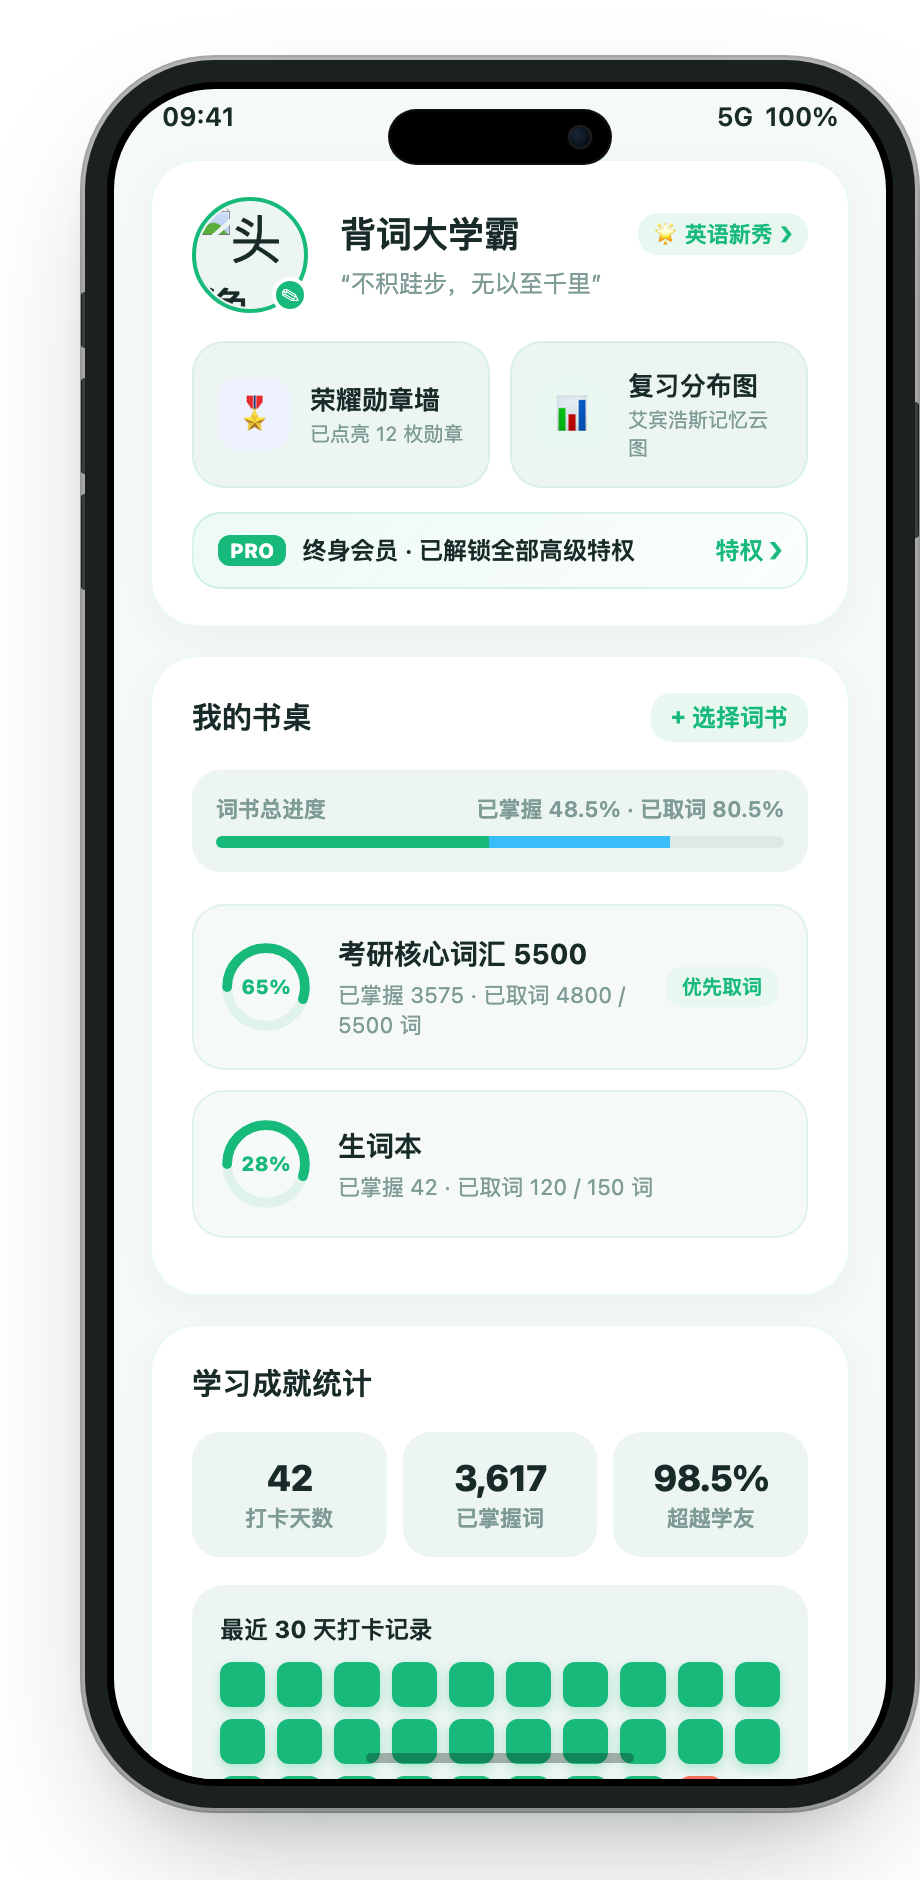
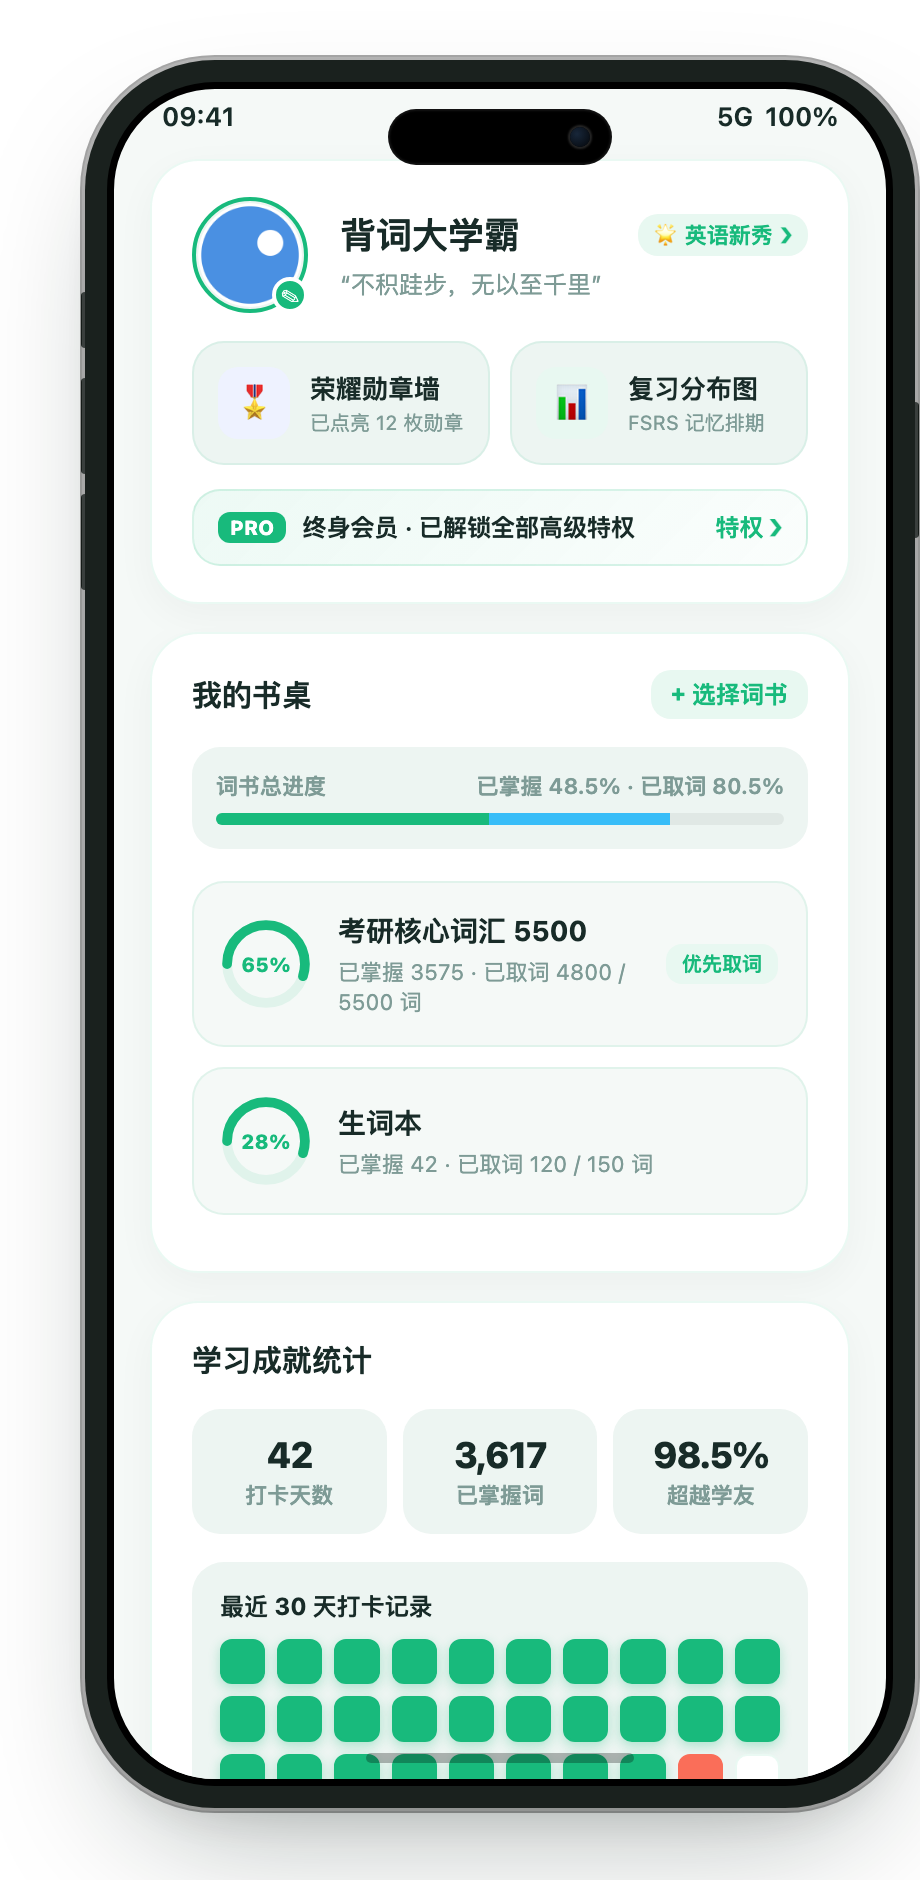
refactor: update memory algorithm terminology from Ebbinghaus to FSRS in profile page and UI preview

diff --git a/index.html b/index.html
@@ -519,7 +519,7 @@
             <h1>一个词，一个意象<br><span class="dim">记住它所有的意思</span></h1>
             <p class="hero-sub">
                 <b>spring</b> 既是春天、也是泉水、弹簧和跳跃——它们本就是同一个动作。
-                泡泡单词为每个单词生成一张<b>核心意象图</b>，把散落的释义串成一条引申脉络，再由 <b>FSRS-5 记忆模型</b>决定它什么时候该回来找你。
+                泡泡单词把它画成一张<b>核心意象图</b>，把散落的释义串成一条引申脉络；背的时候不用在四个选项里认脸，<b>直接开口说出来</b>，再由 <b>FSRS-5 记忆模型</b>决定它什么时候该回来找你。
             </p>
             <div class="actions">
                 <a href="download.html" class="btn btn-primary">下载泡泡单词</a>
@@ -530,7 +530,7 @@
         <div class="wrap">
             <div class="shots">
                 <div class="shot">
-                    <img src="site/study.webp" alt="泡泡单词学习界面：先回想词义再选择" loading="lazy">
+                    <img src="site/speak.webp" alt="说中文释义模式：说出释义后判定命中" loading="lazy">
                 </div>
                 <div class="shot raised">
                     <img src="site/core-image.webp" alt="核心意象图：spring 的多个释义由同一条引申脉络串起" loading="lazy">
@@ -547,7 +547,7 @@
         <div class="wrap">
             <div class="sec-head center">
                 <h2>背单词最难的不是记住，是有处可挂</h2>
-                <p>一个词有七八个释义、五个长得像的邻居、还有无数个明天会忘掉的今天——泡泡单词针对的正是这几件事。</p>
+                <p>一个词有七八个释义、五个长得像的邻居、无数个明天会忘掉的今天，还有「看着认识、开口就卡住」的尴尬——泡泡单词针对的正是这几件事。</p>
             </div>
 
             <div class="feature">
@@ -569,18 +569,19 @@
 
             <div class="feature flip">
                 <div class="feature-text">
-                    <p class="feature-num">主动回忆</p>
-                    <h3>先回想，再看答案</h3>
+                    <p class="feature-num">开口说</p>
+                    <h3>不选 ABCD，把答案说出来</h3>
                     <p>
-                        每个词都先让你自己回忆词义，想不起来再点「看答案」，而不是直接把中文摆在眼前。
-                        回忆这个动作本身，才是让记忆留得最久的原因。
+                        看中文说英文、看英文说意思——答案得靠嘴巴给出来，而不是在四个选项里认脸。
+                        App 会听懂你说了什么：先用随包携带的发音词典（CMU，12.6 万词条）逐音比对，
+                        本地拿不准的时候再请大模型裁决，同义词和口音都认。
                     </p>
                     <p class="highlight">
-                        同一个词支持<b>看词选义、看义选词、看英说义、听写拼写</b>等多种作答方式，换着练，避免只认得位置。
+                        选择题能靠排除法蒙对，<b>说出来的只有一个答案</b>。
                     </p>
                 </div>
                 <div class="feature-art">
-                    <img src="site/study.webp" alt="学习界面：多个释义候选，先回想再点看答案" loading="lazy">
+                    <img src="site/speak.webp" alt="说中文释义模式：说出释义后被判定「已识别并命中释义：更喜欢」" loading="lazy">
                 </div>
             </div>
 
@@ -634,8 +635,8 @@
                     <p>每次作答后按 FSRS-5 模型重算记忆稳定度，推算出这个词该在第几天与你重逢——该复习的当天出现，不该复习的绝不占用你的时间。</p>
                 </div>
                 <div class="cap">
-                    <h4>跟读发音评分</h4>
-                    <p>对着麦克风读出来，App 逐音素比对并给出绿/橙评分，拿不准的发音还会交给大模型复核。</p>
+                    <h4>多种学习模式</h4>
+                    <p>遮挡中文、遮挡英文、拼字母、手写拼写、说中文、说英文、翻译例句，换着练，避免只认得位置。</p>
                 </div>
                 <div class="cap">
                     <h4>形近词并排对比</h4>

diff --git a/app/lib/page/me.dart b/app/lib/page/me.dart
@@ -1400,7 +1400,7 @@ class MePageState extends State<MePage> implements RefreshableTab {
                                   ),
                                   const SizedBox(height: 2),
                                   Text(
-                                    '艾宾浩斯记忆云图',
+                                    'FSRS 记忆排期',
                                     style: TextStyle(
                                       color: subtitleColor,
                                       fontSize: 11,

diff --git a/design/ui/me_preview.html b/design/ui/me_preview.html
@@ -619,7 +619,7 @@
             <div class="highlight-icon-box">📊</div>
             <div class="highlight-meta">
               <div class="highlight-title">复习分布图</div>
-              <div class="highlight-desc">艾宾浩斯记忆云图</div>
+              <div class="highlight-desc">FSRS 记忆排期</div>
             </div>
           </div>
         </div>
